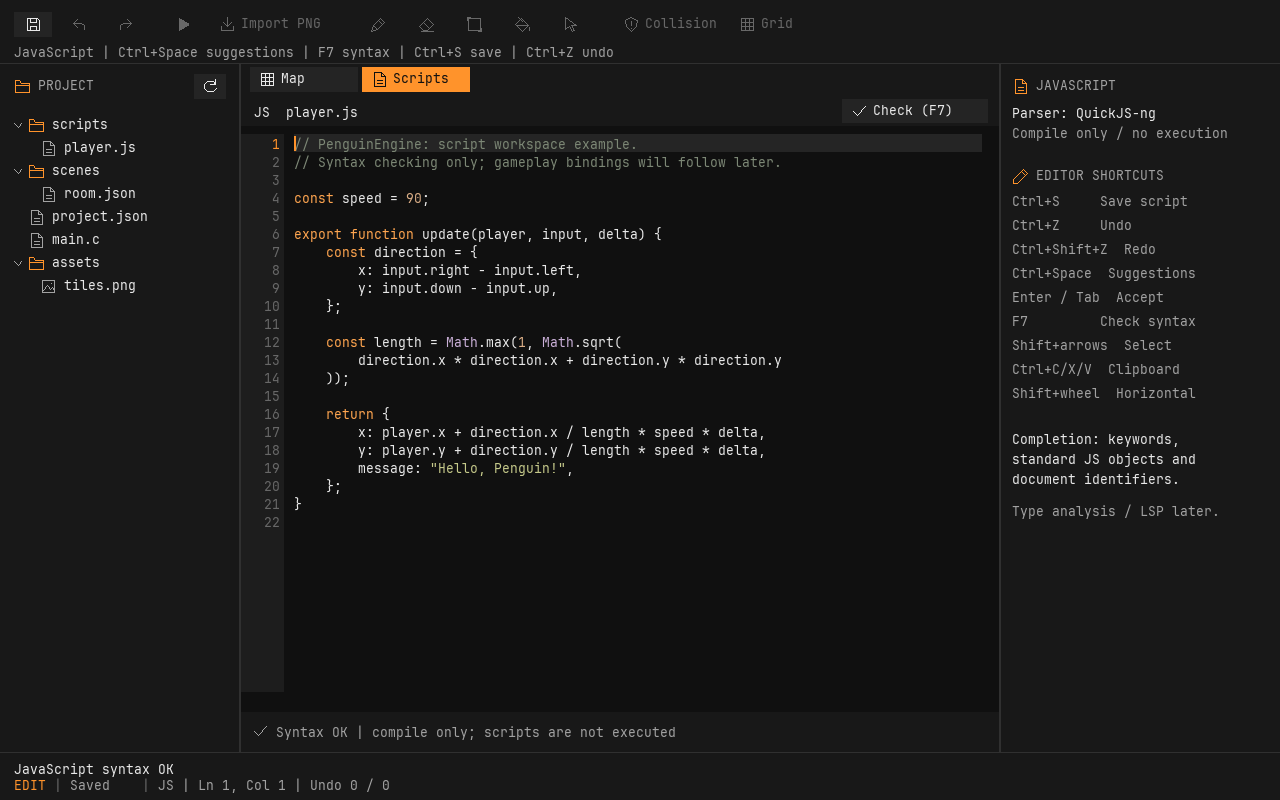
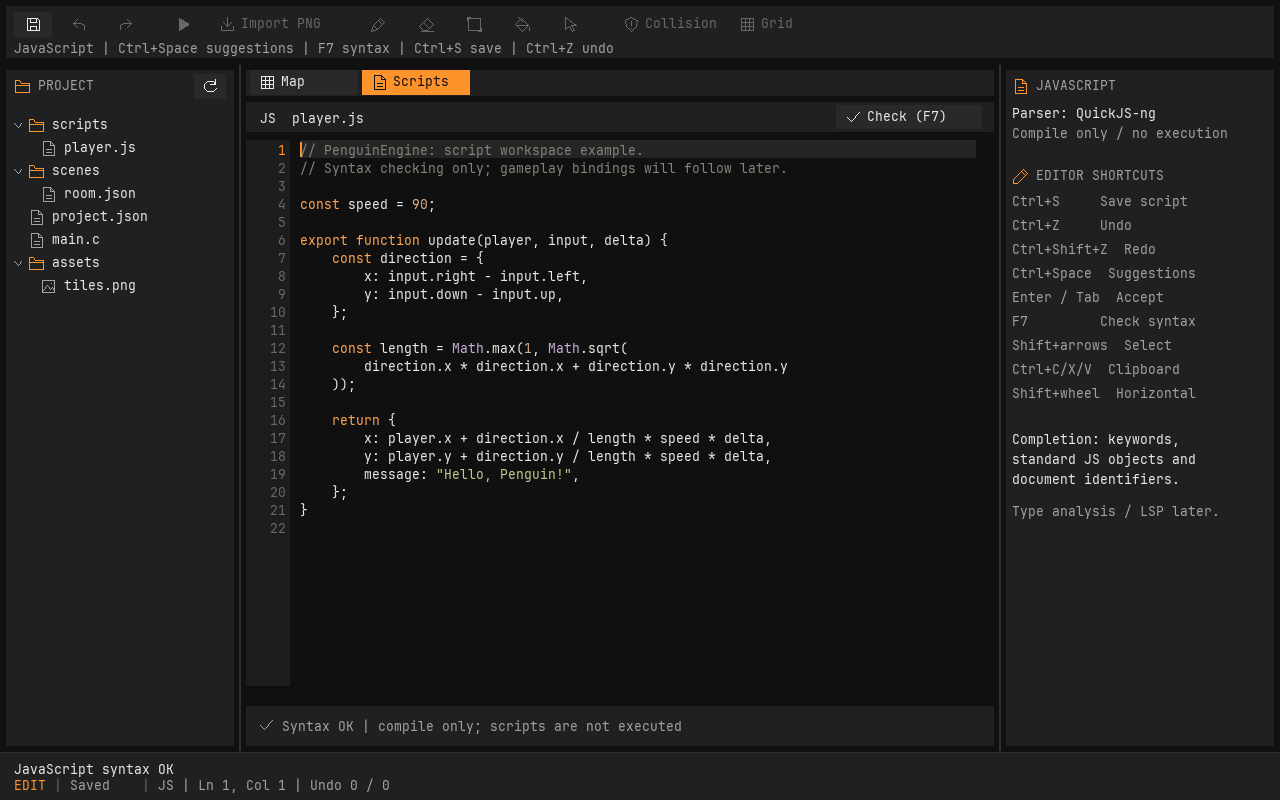
Separate editor panels with lighter surfaces and dark gutters

diff --git a/editor/src/main.c b/editor/src/main.c
@@ -12,6 +12,7 @@
 #define TOP 64
 #define TABS 32
 #define BOTTOM 48
+#define PANEL_GAP 6
 #define TREE_MAX 256
 #define UI_SPLIT_LEFT 0x10001u
 #define UI_SPLIT_RIGHT 0x10002u
@@ -613,12 +614,12 @@ static void draw_tree(void) {
                     true))
         tree_refresh();
     app.tree_view.content = app.tree_count * 23.f;
-    app.tree_view.viewport = (float)(app.height - TOP - 46 - BOTTOM);
+    app.tree_view.viewport = (float)(app.height - TOP - 46 - BOTTOM - PANEL_GAP);
     ui_scroll_clamp(&app.tree_view);
-    UiRect track = {LEFT - 12, TOP + 46, 8, app.tree_view.viewport};
+    UiRect track = {LEFT - 18, TOP + 46, 8, app.tree_view.viewport};
     ui_scrollbar(&app.ui, UI_TREE_SCROLL, track, &app.tree_view, UI_AXIS_Y);
     app.tree_scroll = (int)(app.tree_view.offset / 23);
-    UiRect tree_clip = {0, TOP + 46, LEFT - 16, app.tree_view.viewport};
+    UiRect tree_clip = {PANEL_GAP, TOP + 46, LEFT - 24, app.tree_view.viewport};
     ui_clip_push(&app.ui, tree_clip);
     ui_apply_clip(app.renderer, &app.ui);
     int visible = (int)(app.tree_view.viewport / 23) + 2;
@@ -841,7 +842,7 @@ static void draw_inspector(void) {
     ui_scroll_clamp(&app.inspector_view);
     ui_clip_pop(&app.ui);
     ui_apply_clip(app.renderer, &app.ui);
-    UiRect track = {(float)(app.width - 12), TOP + 8, 8, app.inspector_view.viewport};
+    UiRect track = {(float)(app.width - 18), TOP + 8, 8, app.inspector_view.viewport};
     ui_scrollbar(&app.ui, UI_INSPECTOR_SCROLL, track, &app.inspector_view, UI_AXIS_Y);
     ui_draw_scrollbar(app.renderer, &app.ui, UI_INSPECTOR_SCROLL, track, &app.inspector_view,
                       UI_AXIS_Y);
@@ -871,7 +872,7 @@ static void draw_script_inspector(void) {
     ui_scroll_clamp(&app.inspector_view);
     ui_clip_pop(&app.ui);
     ui_apply_clip(app.renderer, &app.ui);
-    UiRect track = {(float)(app.width - 12), TOP + 8, 8, app.inspector_view.viewport};
+    UiRect track = {(float)(app.width - 18), TOP + 8, 8, app.inspector_view.viewport};
     ui_scrollbar(&app.ui, UI_INSPECTOR_SCROLL, track, &app.inspector_view, UI_AXIS_Y);
     ui_draw_scrollbar(app.renderer, &app.ui, UI_INSPECTOR_SCROLL, track, &app.inspector_view,
                       UI_AXIS_Y);
@@ -925,11 +926,11 @@ static bool ui_controls_hit(float x, float y) {
         return true;
     if (y >= TOP && y < TOP + TABS && x >= LEFT && x < app.width - RIGHT)
         return true;
-    if (ui_scroll_max(&app.tree_view) > 0 && x >= LEFT - 14 && x < LEFT && y >= TOP + 46 &&
-        y < app.height - BOTTOM)
+    if (ui_scroll_max(&app.tree_view) > 0 && x >= LEFT - 20 && x < LEFT - PANEL_GAP &&
+        y >= TOP + 46 && y < app.height - BOTTOM)
         return true;
-    if (ui_scroll_max(&app.inspector_view) > 0 && x >= app.width - 14 && y >= TOP &&
-        y < app.height - BOTTOM)
+    if (ui_scroll_max(&app.inspector_view) > 0 && x >= app.width - 20 &&
+        x < app.width - PANEL_GAP && y >= TOP && y < app.height - BOTTOM)
         return true;
     if (app.script_tab && se_scroll_hit(&app.script, x, y, app.viewport))
         return true;
@@ -939,16 +940,20 @@ static void draw(void) {
     SDL_GetWindowSize(app.window, &app.width, &app.height);
     app.ui.blocked = app.field != FIELD_NONE || app.request != REQUEST_NONE;
     layout_columns();
-    app.viewport = (SDL_FRect){LEFT, TOP + TABS, (float)(app.width - LEFT - RIGHT),
-                               (float)(app.height - TOP - TABS - BOTTOM)};
+    app.viewport = (SDL_FRect){LEFT + PANEL_GAP, TOP + TABS + PANEL_GAP,
+                               (float)(app.width - LEFT - RIGHT - 2 * PANEL_GAP),
+                               (float)(app.height - TOP - TABS - BOTTOM - 2 * PANEL_GAP)};
     draw_color(UI_CANVAS);
     SDL_RenderClear(app.renderer);
-    box((SDL_FRect){0, 0, (float)app.width, TOP}, UI_PANEL);
-    box((SDL_FRect){0, TOP, LEFT, (float)app.height}, UI_PANEL);
-    box((SDL_FRect){LEFT - 1, TOP, 1, (float)app.height}, UI_BORDER);
-    box((SDL_FRect){(float)(app.width - RIGHT), TOP, 1, (float)app.height}, UI_BORDER);
-    box((SDL_FRect){0, TOP - 1, (float)app.width, 1}, UI_BORDER);
-    box((SDL_FRect){(float)(app.width - RIGHT), TOP, RIGHT, (float)app.height}, UI_PANEL);
+    /* Inset panels expose the dark application background as narrow gutters. */
+    box((SDL_FRect){PANEL_GAP, PANEL_GAP, (float)(app.width - 2 * PANEL_GAP), TOP - 2 * PANEL_GAP},
+        UI_PANEL);
+    box((SDL_FRect){PANEL_GAP, TOP + PANEL_GAP, LEFT - 2 * PANEL_GAP,
+                    (float)(app.height - TOP - BOTTOM - 2 * PANEL_GAP)},
+        UI_PANEL);
+    box((SDL_FRect){(float)(app.width - RIGHT + PANEL_GAP), TOP + PANEL_GAP, RIGHT - 2 * PANEL_GAP,
+                    (float)(app.height - TOP - BOTTOM - 2 * PANEL_GAP)},
+        UI_PANEL);
     bool modal = app.field != FIELD_NONE || app.request != REQUEST_NONE;
     bool saved_click = app.click;
     if (modal)
@@ -995,14 +1000,16 @@ static void draw(void) {
         app.collision = !app.collision;
     if (icon_button(730, 12, 80, ICON_GRID, "Grid", "Show tile grid", app.grid, map_active))
         app.grid = !app.grid;
-    text(14, 49,
+    text(14, 45,
          app.script_tab
              ? "JavaScript | Ctrl+Space suggestions | F7 syntax | Ctrl+S save | Ctrl+Z undo"
              : "Drop PNG to import | B/E/R/F/V tools | Ctrl+S save | Ctrl+Z undo | F5 play | MMB "
                "pan | wheel zoom",
          UI_MUTED);
-    box((SDL_FRect){LEFT, TOP, (float)(app.width - LEFT - RIGHT), TABS}, UI_PANEL);
-    UiRect tab_bar = {LEFT + 10, TOP + 3, (float)(app.width - LEFT - RIGHT - 20), 25};
+    box((SDL_FRect){LEFT + PANEL_GAP, TOP + PANEL_GAP,
+                    (float)(app.width - LEFT - RIGHT - 2 * PANEL_GAP), TABS - PANEL_GAP},
+        UI_PANEL);
+    UiRect tab_bar = {LEFT + 10, TOP + PANEL_GAP, (float)(app.width - LEFT - RIGHT - 20), 25};
     for (int i = 0; i < app.tabs.count; i++)
         app.tabs.items[i].enabled =
             !app.history.pending && (app.tabs.items[i].id == UI_MAP_TAB || !app.playing);
@@ -1470,7 +1477,7 @@ static bool verify_ui_layout(void) {
     smoke_pointer(SDL_EVENT_MOUSE_BUTTON_DOWN, x, y);
     smoke_pointer(SDL_EVENT_MOUSE_MOTION, x + 100, y);
     smoke_pointer(SDL_EVENT_MOUSE_BUTTON_UP, x + 100, y);
-    bool ok = fabsf(app.left_width - 340) < .01f && app.viewport.x == 340;
+    bool ok = fabsf(app.left_width - 340) < .01f && app.viewport.x == 340 + PANEL_GAP;
     x = app.width - app.right_width;
     smoke_pointer(SDL_EVENT_MOUSE_BUTTON_DOWN, x, y);
     smoke_pointer(SDL_EVENT_MOUSE_MOTION, x - 80, y);

diff --git a/ui/include/penguin/ui_sdl.h b/ui/include/penguin/ui_sdl.h
@@ -4,10 +4,10 @@
 #include <SDL3/SDL.h>
 /* Editor theme: RGBA, separate from game artwork. */
 #define UI_CANVAS 0x101010ffu
-#define UI_PANEL 0x181818ffu
-#define UI_SURFACE 0x242424ffu
+#define UI_PANEL 0x202020ffu
+#define UI_SURFACE 0x292929ffu
 #define UI_BORDER 0x303030ffu
-#define UI_HOVER 0x333333ffu
+#define UI_HOVER 0x393939ffu
 #define UI_ACCENT 0xff932bffu
 #define UI_ACCENT_BG 0xff932bffu
 #define UI_TEXT 0xe9e9e9ffu

diff --git a/docs/TESTPLAN.md b/docs/TESTPLAN.md
@@ -37,7 +37,7 @@ Die automatisierten Tests wurden in der Entwicklungsumgebung headless ausgeführ
 
 ## Gemeinsame UI und Flat-Layout
 
-1. Buttons/Tabs prüfen: gerade Kanten, flächige Farben, aktives Orange und gut lesbare Beschriftung. Save und Play/Stop zeigen nur Icons; Tooltips und Ctrl+S/F5 funktionieren weiterhin. Außerhalb der Karte ist die Arbeitsfläche heller grau; beim Zoomen/Verschieben bleiben leere und transparente Tiles innerhalb der Karte dunkel.
+1. Panel-Abstände prüfen: Toolbar, Dateibaum und Inspector heben sich mit hellerem Grau und 6 px dunklem Zwischenraum ab; beim Spaltenziehen/Fensterresize bleiben die Abstände erhalten. Map-Pinsel, Zoom und Skript-Auswahl treffen nach dem Einrücken weiterhin korrekt. Buttons/Tabs prüfen: gerade Kanten, flächige Farben, aktives Orange und gut lesbare Beschriftung. Save und Play/Stop zeigen nur Icons; Tooltips und Ctrl+S/F5 funktionieren weiterhin. Außerhalb der Karte ist die Arbeitsfläche heller grau; beim Zoomen/Verschieben bleiben leere und transparente Tiles innerhalb der Karte dunkel.
 2. Beide Spaltentrenner ziehen, auch über ihren ursprünglichen Bereich hinaus. Mindestbreiten erhalten die mittlere Arbeitsfläche. Keine Tiles oder Texte dürfen dabei verändert werden.
 3. Rechts Inspector-Bereiche ein-/ausklappen und die Tile-Palette bei geänderter Spaltenbreite prüfen. Rename und Sortieraktionen bleiben erreichbar.
 4. Mit vielen Dateien, vier Ebenen/ausgewählter Entity und langen Scripts Scrollbars prüfen: Mausrad, Thumb-Ziehen und Track-Klicks. Ausgeblendete Controls dürfen nicht anklickbar sein.

diff --git a/docs/UI_BIBLIOTHEK.md b/docs/UI_BIBLIOTHEK.md
@@ -122,3 +122,5 @@ Editor-Smoke-Tests ziehen beide Spaltentrenner, klappen einen Inspector-Bereich 
 ## Nächste Komponenten
 
 Nach Bedarf ergänzen wir Checkboxen/Radio-Buttons, Slider, Dropdowns, allgemeine Text-/Zahlenfelder, Menüleisten, Dialogbausteine und Listen-/Baumansichten. Dazu gehören später Tab-Navigation, eine bessere Textdarstellung und gespeicherte Benutzerlayouts. Jede Komponente soll einen kleinen Daten-/Eingabeteil und eine getrennte Darstellung erhalten. Freies Docking und ein vollständiges IDE-Framework bleiben größere, separate Aufgaben.
+
+Der Editor verwendet `UI_CANVAS` (#101010) als dunkle Grundfläche und `UI_PANEL` (#202020) für abgesetzte Panels. Toolbar, Dateibaum und Inspector haben 6 px Außenabstand. Buttons verwenden #292929, Hover #393939; die orange Akzentfarbe bleibt erhalten. Map- und Script-Arbeitsflächen berücksichtigen dieselben Abstände bei Darstellung und Eingabe.
